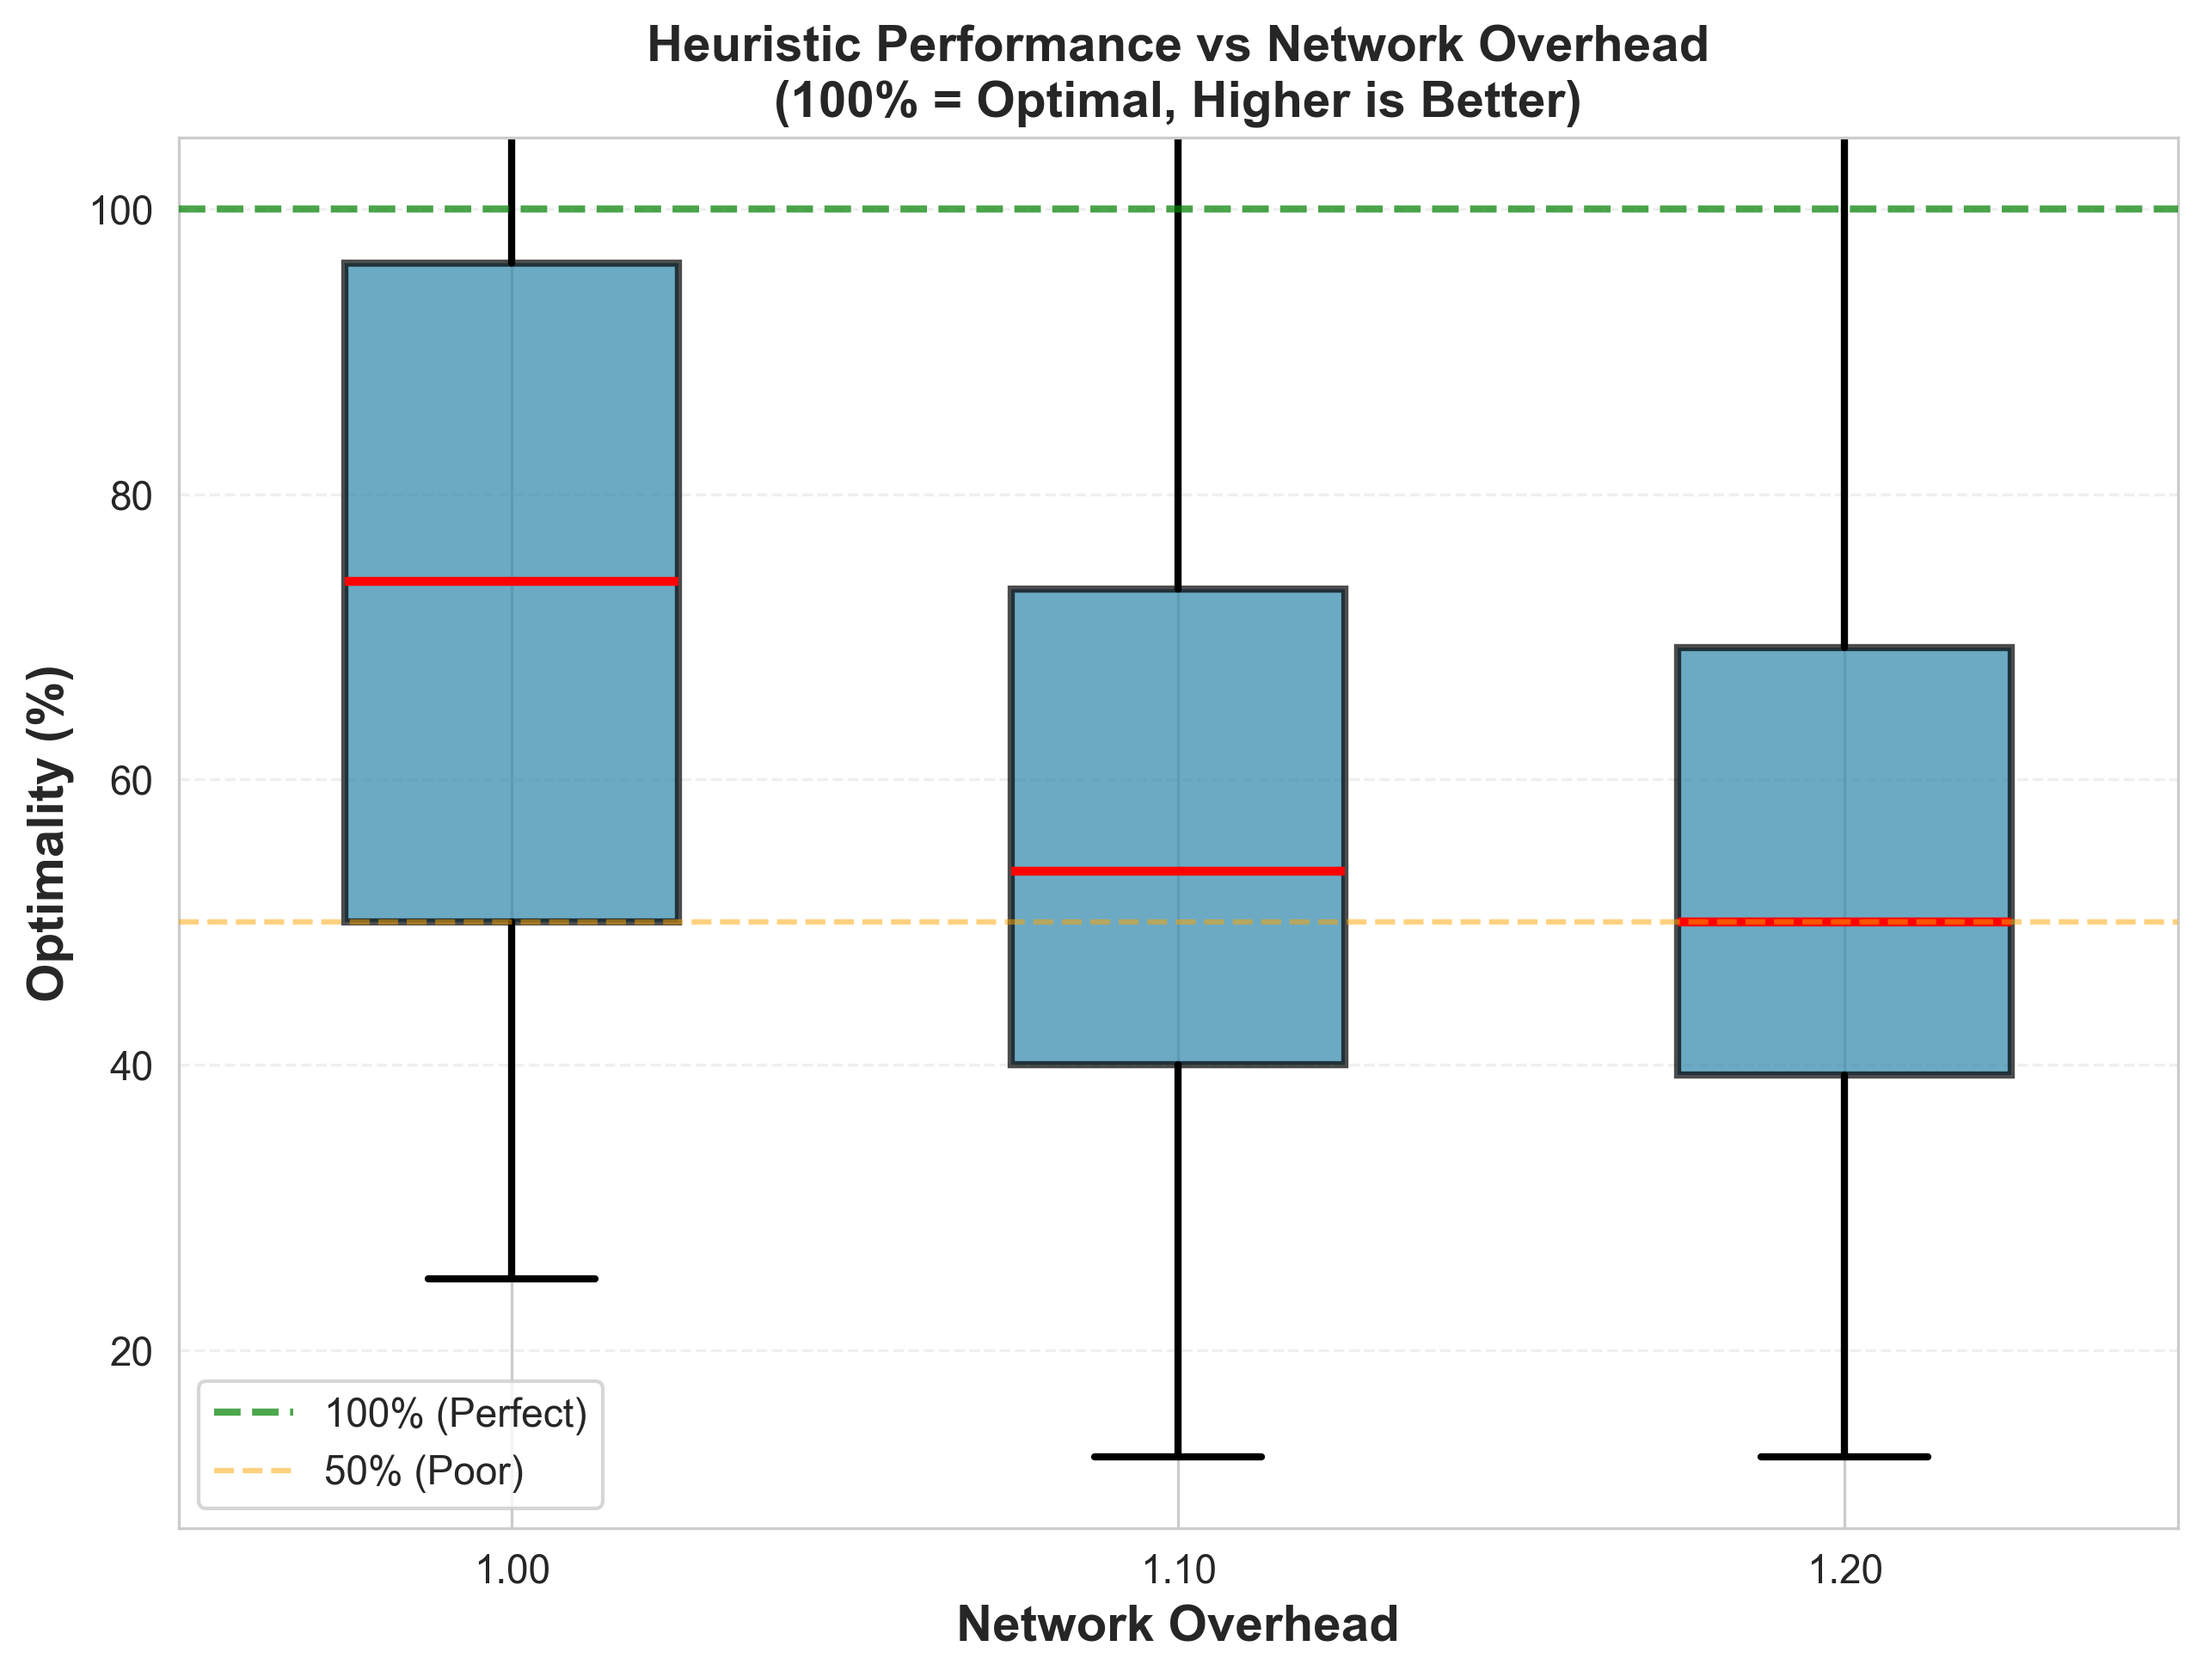
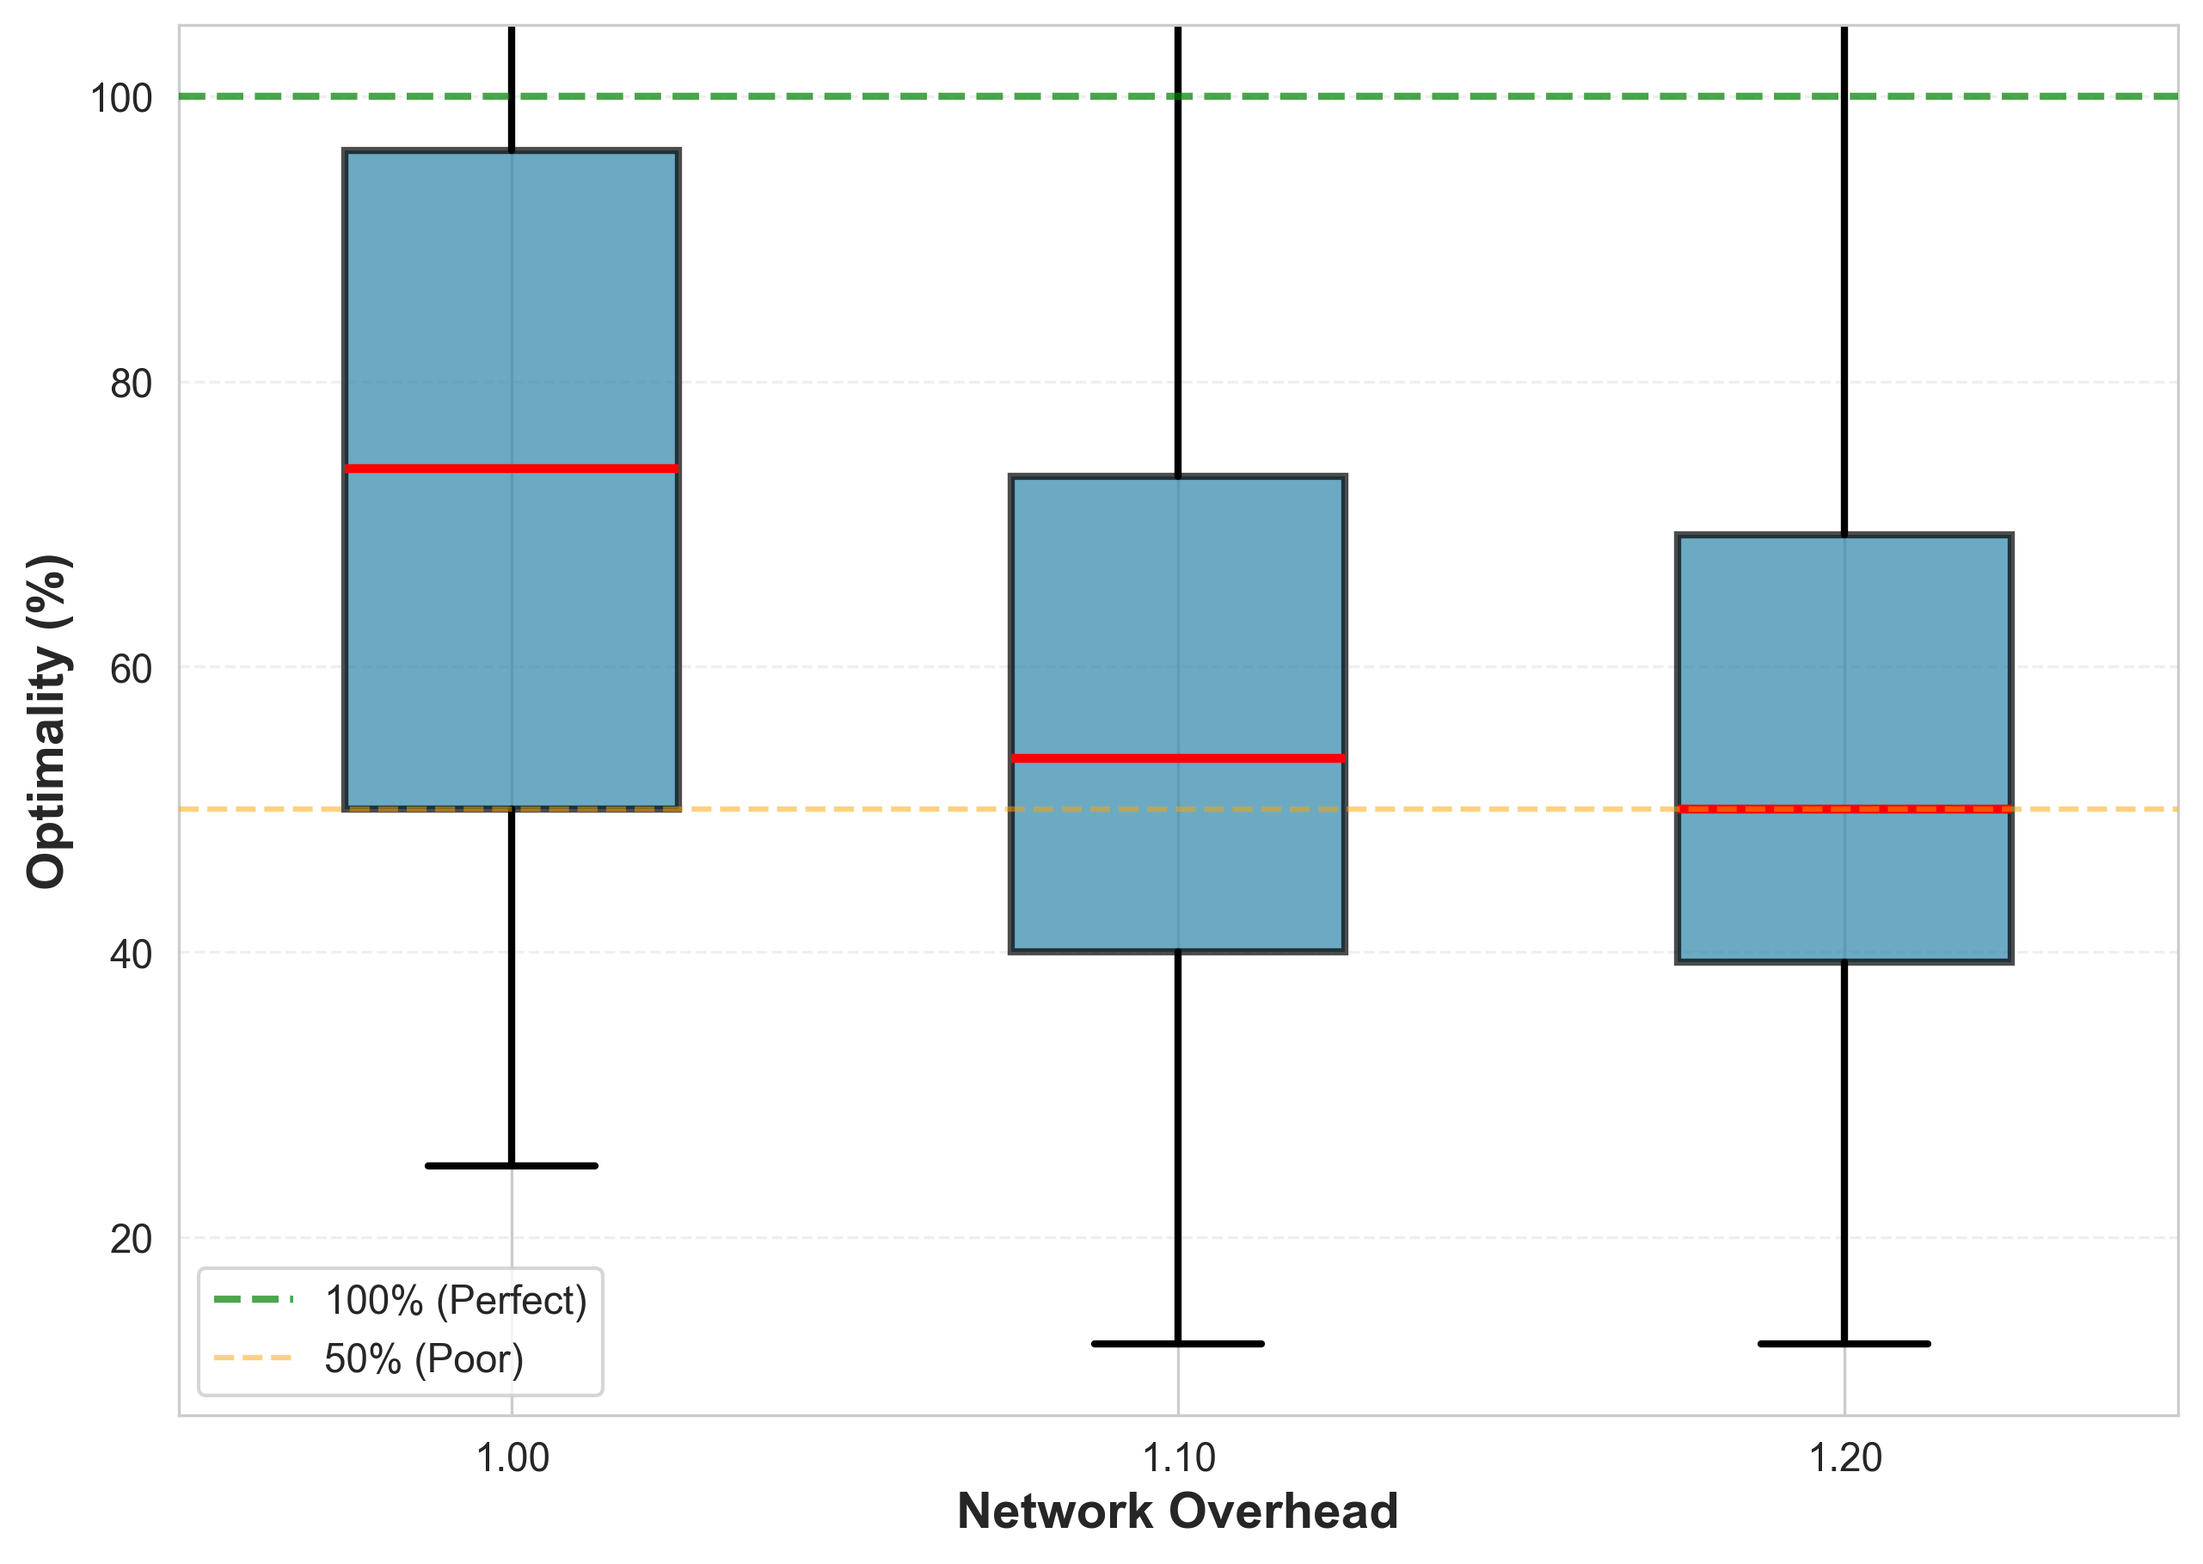
optimality vs circuit size + higher circuit runs

diff --git a/hdh/hdh_bruteforce_plot.py b/hdh/hdh_bruteforce_plot.py
@@ -22,6 +22,7 @@ CSV_FILE = Path('experiment_outputs_mqtbench/comparison_results_10_qubit-level.c
 OUTPUT_DIR = Path('experiment_outputs_mqtbench')
 OUTPUT_DIR.mkdir(parents=True, exist_ok=True)
 PLOT_FILE = OUTPUT_DIR / 'optimality_vs_overhead_k3.png'
+SIZE_PLOT_FILE = OUTPUT_DIR / 'optimality_vs_circuit_size_overhead1.png'
 
 # Plotting style
 sns.set_style("whitegrid")
@@ -219,8 +220,8 @@ def create_plot(df: pd.DataFrame, output_path: Path, k: int):
     # Labels and title
     ax.set_xlabel('Network Overhead', fontsize=14, fontweight='bold')
     ax.set_ylabel('Optimality (%)', fontsize=14, fontweight='bold')
-    ax.set_title('Heuristic Performance vs Network Overhead\n(100% = Optimal, Higher is Better)', 
-                 fontsize=14, fontweight='bold')
+    # ax.set_title('Heuristic Performance vs Network Overhead\n(100% = Optimal, Higher is Better)', 
+    #              fontsize=14, fontweight='bold')
 
     # Set x-axis labels
     ax.set_xticks(overhead_values)
@@ -257,6 +258,109 @@ def create_plot(df: pd.DataFrame, output_path: Path, k: int):
     plt.close()
 
 
+def create_circuit_size_plot(df: pd.DataFrame, output_path: Path, k: int, overhead_value: float = 1.0):
+    """Create scatter plot showing optimality vs circuit size for a specific overhead."""
+    print(f"\nCreating circuit size plot for overhead={overhead_value}...")
+    
+    # Filter for specific overhead
+    df_overhead = df[df['overhead'] == overhead_value].copy()
+    
+    if df_overhead.empty:
+        print(f"âš  Warning: No data found for overhead={overhead_value}")
+        return
+    
+    # Extract qubit counts
+    df_overhead['qubits'] = df_overhead['circuit'].apply(
+        lambda x: extract_algorithm_info(x)['qubits']
+    )
+    
+    # Convert qubits to integer (filter out 'unknown')
+    df_overhead['qubits_int'] = pd.to_numeric(df_overhead['qubits'], errors='coerce')
+    df_overhead = df_overhead.dropna(subset=['qubits_int'])
+    
+    # Filter out infinite/nan optimality values
+    df_plot = df_overhead[np.isfinite(df_overhead['optimality'])].copy()
+    
+    if df_plot.empty:
+        print(f"âš  Warning: No finite optimality values to plot for overhead={overhead_value}")
+        return
+    
+    # Convert optimality to percentage
+    df_plot['optimality_pct'] = df_plot['optimality'] * 100
+    
+    # Print statistics
+    print(f"\nCircuit size analysis for overhead={overhead_value}:")
+    print(f"  Total circuits: {len(df_plot)}")
+    print(f"  Qubit range: {int(df_plot['qubits_int'].min())} - {int(df_plot['qubits_int'].max())}")
+    print(f"  Mean optimality: {df_plot['optimality_pct'].mean():.1f}%")
+    
+    # Create figure
+    fig, ax = plt.subplots(figsize=(10, 7))
+    
+    # Scatter plot
+    scatter = ax.scatter(df_plot['qubits_int'], 
+                        df_plot['optimality_pct'],
+                        alpha=0.6, 
+                        s=100,
+                        c=df_plot['optimality_pct'],
+                        cmap='RdYlGn',
+                        vmin=0,
+                        vmax=100,
+                        edgecolors='black',
+                        linewidth=0.5)
+    
+    # Add colorbar
+    cbar = plt.colorbar(scatter, ax=ax)
+    cbar.set_label('Optimality (%)', fontsize=12, fontweight='bold')
+    
+    # Calculate and plot trend line
+    z = np.polyfit(df_plot['qubits_int'], df_plot['optimality_pct'], 1)
+    p = np.poly1d(z)
+    x_trend = np.linspace(df_plot['qubits_int'].min(), df_plot['qubits_int'].max(), 100)
+    ax.plot(x_trend, p(x_trend), "b--", alpha=0.8, linewidth=2, label=f'Trend: y={z[0]:.2f}x+{z[1]:.1f}')
+    
+    # Add horizontal line at 100% (perfect optimality)
+    ax.axhline(y=100, color='green', linestyle='--', linewidth=2, alpha=0.7, 
+               label='100% (Perfect)')
+    
+    # Labels and title
+    ax.set_xlabel('Circuit Size (Number of Qubits)', fontsize=14, fontweight='bold')
+    ax.set_ylabel('Optimality (%)', fontsize=14, fontweight='bold')
+    # ax.set_title(f'Heuristic Optimality vs Circuit Size\n(Overhead = {overhead_value}, k = {k} QPUs)', 
+    #              fontsize=14, fontweight='bold')
+    
+    # Grid
+    ax.grid(True, alpha=0.3, linestyle='--')
+    
+    # Set axis limits with padding
+    x_padding = (df_plot['qubits_int'].max() - df_plot['qubits_int'].min()) * 0.05
+    y_padding = 5
+    
+    ax.set_xlim([df_plot['qubits_int'].min() - x_padding, 
+                 df_plot['qubits_int'].max() + x_padding])
+    ax.set_ylim([max(0, df_plot['optimality_pct'].min() - y_padding), 
+                 min(105, df_plot['optimality_pct'].max() + y_padding)])
+    
+    # Legend
+    ax.legend(loc='best')
+    
+    # Add statistics text box
+    stats_text = f'n = {len(df_plot)} circuits\n'
+    stats_text += f'Mean: {df_plot["optimality_pct"].mean():.1f}%\n'
+    stats_text += f'Median: {df_plot["optimality_pct"].median():.1f}%\n'
+    stats_text += f'Std: {df_plot["optimality_pct"].std():.1f}pp'
+    
+    ax.text(0.02, 0.02, stats_text,
+            transform=ax.transAxes,
+            fontsize=10,
+            verticalalignment='bottom',
+            bbox=dict(boxstyle='round', facecolor='wheat', alpha=0.5))
+    
+    # Save
+    plt.savefig(output_path, dpi=300, bbox_inches='tight')    
+    plt.close()
+
+
 def main():
     """Main execution."""
     print("\n" + "="*70)
@@ -266,7 +370,7 @@ def main():
     
     # Check if file exists
     if not CSV_FILE.exists():
-        print(f"❌ Error: CSV file not found at {CSV_FILE}")
+        print(f" Error: CSV file not found at {CSV_FILE}")
         print(f"   Please run the brute force experiments first.")
         return
     
@@ -274,7 +378,7 @@ def main():
     try:
         df = load_and_filter_data(CSV_FILE, k_filter=3)
     except Exception as e:
-        print(f"❌ Error loading data: {e}")
+        print(f" Error loading data: {e}")
         return
     
     # Print statistics
@@ -284,12 +388,21 @@ def main():
     try:
         create_plot(df, PLOT_FILE, k=3)
     except Exception as e:
-        print(f"❌ Error creating plot: {e}")
+        print(f" Error creating plot: {e}")
         import traceback
         traceback.print_exc()
         return
     
-    print("\n✅ Analysis complete!\n")
+    # Create circuit size plot for overhead=1
+    try:
+        create_circuit_size_plot(df, SIZE_PLOT_FILE, k=3, overhead_value=1.0)
+    except Exception as e:
+        print(f" Error creating circuit size plot: {e}")
+        import traceback
+        traceback.print_exc()
+        return
+    
+    print("\n Analysis complete!\n")
 
 
 if __name__ == '__main__':

diff --git a/hdh/hdh_bruteforce.py b/hdh/hdh_bruteforce.py
@@ -354,6 +354,7 @@ def convert_node_partition_to_sets(
 
 def load_small_mqtbench_hdhs(
     pkl_dir: str,
+    min_qubits: int = 1,
     max_qubits: int = 12,
     max_nodes: int = 1000
 ) -> Dict[str, HDH]:
@@ -362,6 +363,7 @@ def load_small_mqtbench_hdhs(
     
     Args:
         pkl_dir: Path to directory containing pickle files
+        min_qubits: Minimum number of qubits
         max_qubits: Maximum number of qubits
         max_nodes: Maximum number of quantum nodes (for node-level brute force)
     
@@ -380,6 +382,7 @@ def load_small_mqtbench_hdhs(
     
     print(f"\n{'='*70}")
     print(f"Loading small MQT Bench circuits")
+    print(f"  Min qubits: {min_qubits}")
     print(f"  Max qubits: {max_qubits}")
     print(f"  Max quantum nodes: {max_nodes}")
     print(f"  Searching in: {pkl_path}")
@@ -402,7 +405,7 @@ def load_small_mqtbench_hdhs(
             num_qubits = len(extract_qubits_from_hdh(hdh))
             num_qnodes = sum(1 for n in hdh.S if hdh.sigma[n] == 'q')
             
-            if num_qubits <= max_qubits and num_qnodes <= max_nodes and num_qubits > 0:
+            if min_qubits <= num_qubits <= max_qubits and num_qnodes <= max_nodes and num_qubits > 0:
                 hdhs[circuit_name] = hdh
                 print(f"  ✓ {circuit_name}: {num_qubits} qubits, {num_qnodes} q-nodes, "
                       f"{len(hdh.S)} total nodes")
@@ -689,16 +692,22 @@ def main():
         help='Directory containing MQT Bench pickle files'
     )
     parser.add_argument(
-        '--max_qubits',
+        '--min_qubits',
         type=int,
         default=12,
-        help='Maximum qubits for circuits to test (default: 12)'
+        help='Minimum qubits for circuits to test (default: 12)'
+    )
+    parser.add_argument(
+        '--max_qubits',
+        type=int,
+        default=20,
+        help='Maximum qubits for circuits to test (default: 20)'
     )
     parser.add_argument(
         '--max_nodes',
         type=int,
-        default=1000,
-        help='Maximum quantum nodes for node-level brute force (default: 200)'
+        default=5000,
+        help='Maximum quantum nodes for node-level brute force (default: 5000)'
     )
     parser.add_argument(
         '--k',
@@ -745,6 +754,7 @@ def main():
     print("\n" + "="*70)
     print(f"BRUTE-FORCE COMPARISON V2 ({method})")
     print("="*70)
+    print(f"Min qubits: {args.min_qubits}")
     print(f"Max qubits: {args.max_qubits}")
     print(f"Max quantum nodes (for node-level): {args.max_nodes}")
     print(f"k (QPUs): {args.k}")
@@ -762,6 +772,7 @@ def main():
     # Load small circuits
     hdhs = load_small_mqtbench_hdhs(
         args.pkl_dir,
+        args.min_qubits,
         args.max_qubits,
         args.max_nodes if use_node_level else 1000  # No limit for qubit-level
     )
@@ -782,3 +793,4 @@ def main():
 
 if __name__ == '__main__':
     main()
+    
